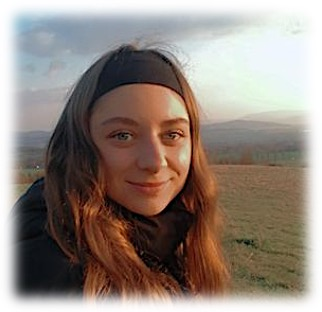
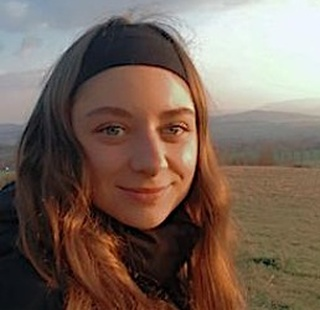
.

diff --git a/index.html b/index.html
@@ -132,19 +132,32 @@
 
         }
 
+        /* Gallery: show 2 images per row on mobile, keep desktop unchanged */
+        @media (max-width: 767.98px) {
+            #gallery > .col-md-4 {
+                flex: 0 0 50%;
+                max-width: 50%;
+            }
+        }
+        /* Team: show 2 images per row on mobile, keep desktop unchanged */
+        @media (max-width: 767.98px) {
+            #team .row > .col-md-4.team-member {
+                flex: 0 0 50%;
+                max-width: 50%;
+            }
+        }
+
         /* Team section: consistent image sizing */
         .team-member {
             text-align: center;
             margin-bottom: 1.5rem;
         }
 
-        /* Mobile / stacked layout: smaller, centered */
+        /* Mobile: images fill their column */
         .team-member img {
-            width: 50%;
-            max-width: 320px;
+            width: 100%;
             height: auto;
             display: block;
-            margin: 0 auto;
             object-fit: cover;
             border-radius: 10px;
         }
